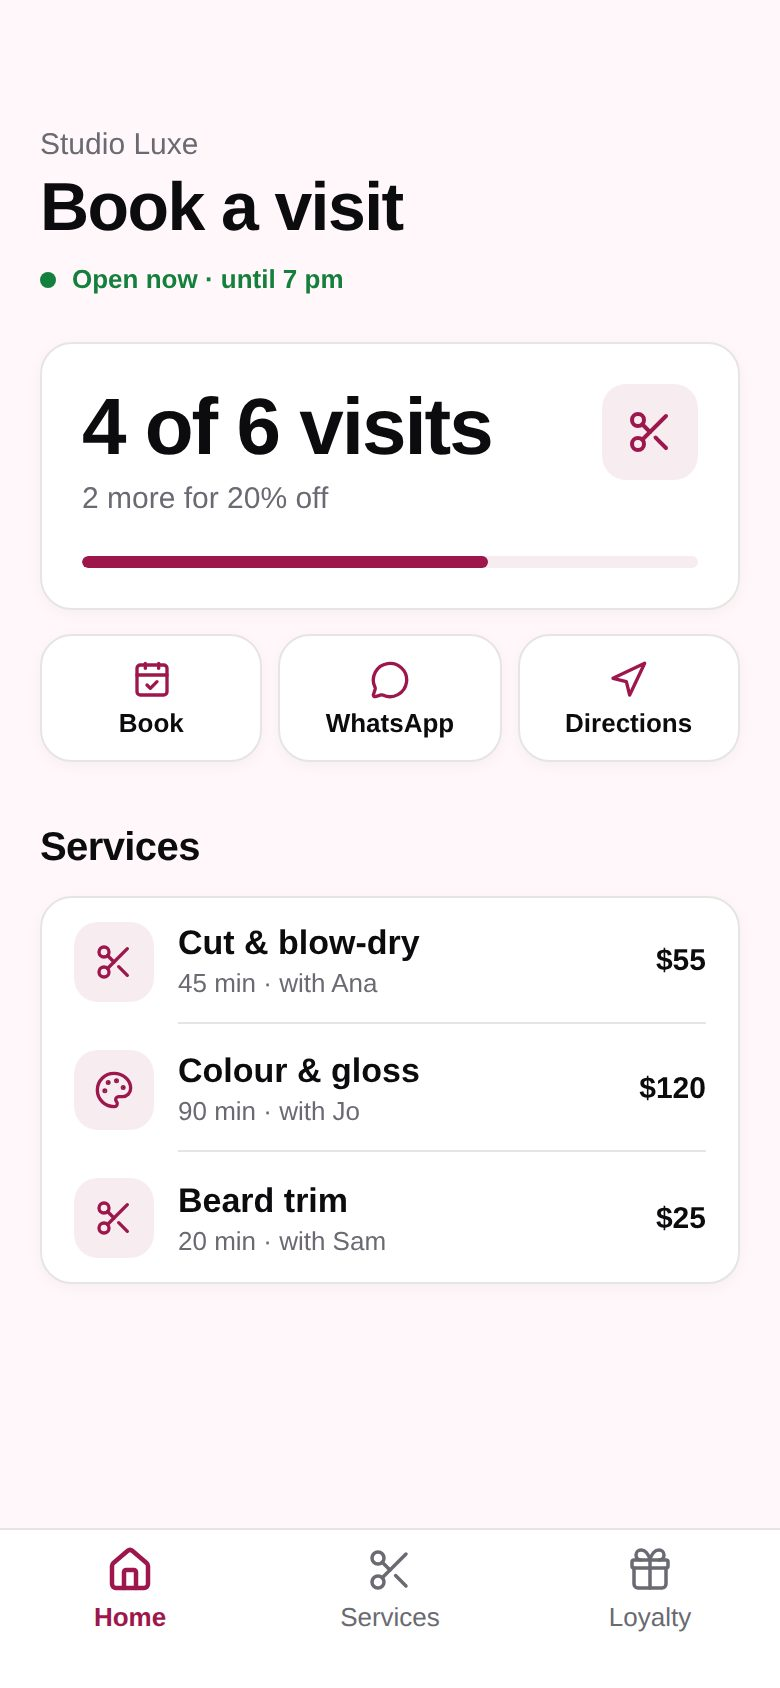
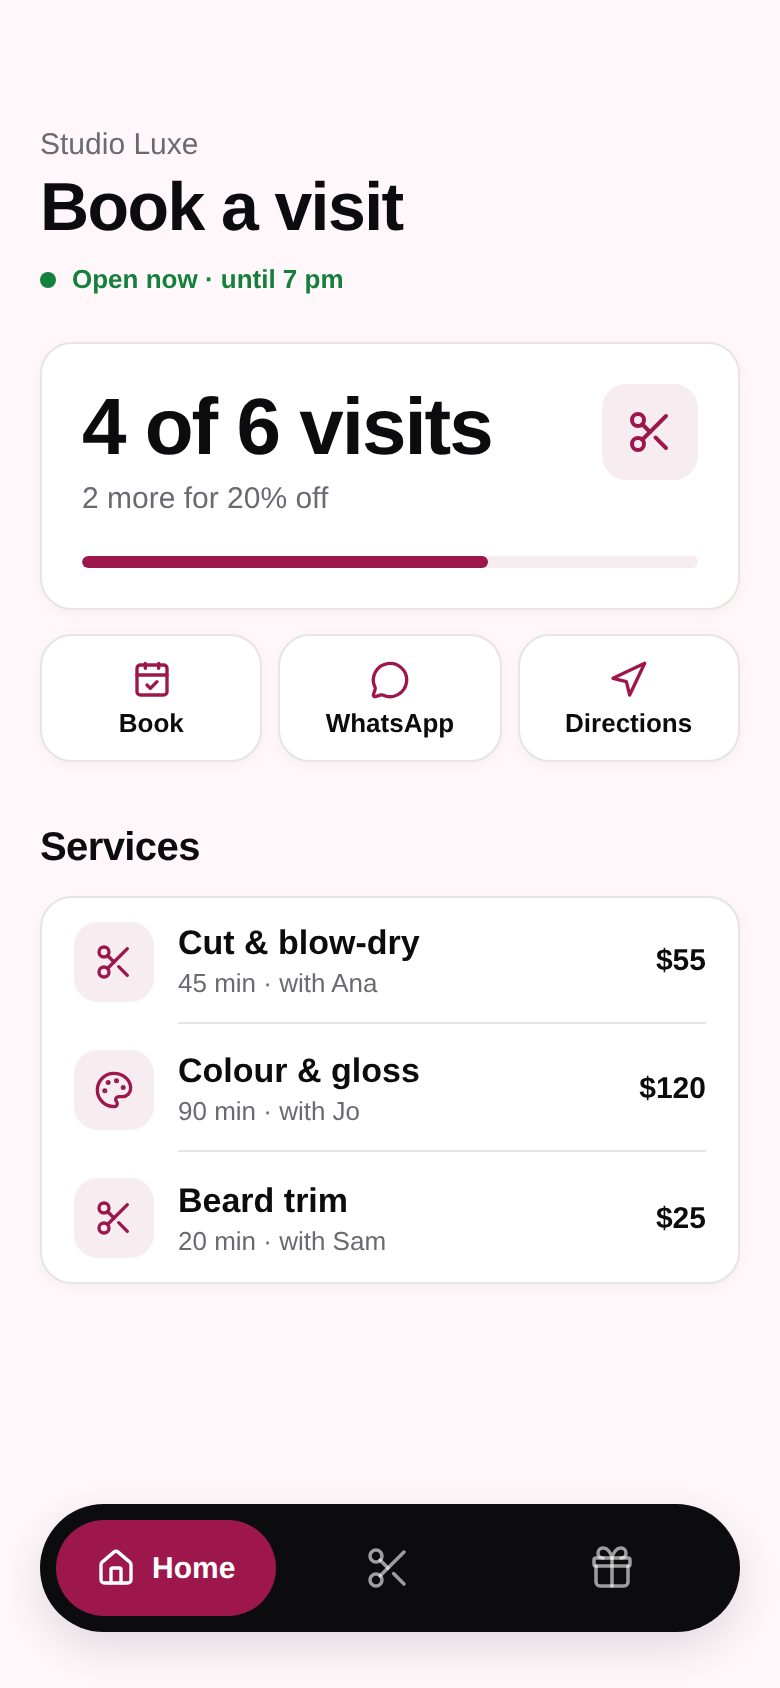
Creative bottom navigation and curved headers on the demo apps
- Home page template apps now use distinctive navigation, one style per
  app: a curved notch bar with a raised center action button (study,
  countdown, gym check-in, call a plumber), a floating dark pill whose
  current tab opens into a brand chip, a floating rounded bar with an
  indicator line, or a calm plain bar.
- Curved brand headers (a gentle arc behind the title, with the first card
  overlapping it) on the restaurant, clinic and real estate apps.
- The budget sample app's Add tab is now the raised center button of a
  curved bar; its hint moved under the Recent heading.
- The app designer's instructions describe these navigation styles and
  shapes (built with Views, accessible tabs, one style chosen per app).
- All home page screenshots regenerated.

Claude-Session: https://claude.ai/code/session_013TZUctfa4ToeDV2y2ByTiT

Changed region(s): [[0.0308, 0.8934, 0.9538, 0.9858]]

diff --git a/scripts/template-screens.ts b/scripts/template-screens.ts
@@ -45,11 +45,18 @@ interface Screen {
   section: string;
   rows: Row[];
   tabs: [string, string][];
+  /** Bottom navigation: a curved bar with a raised center button, a floating pill, a floating bar, or a plain bar. */
+  nav: "notch" | "pill" | "float" | "bar";
+  /** The center button of a notch bar (a Lucide icon). */
+  fab?: string;
+  /** A brand-colored header with a curved bottom edge behind the title. */
+  header?: "curve";
 }
 
 /** Home screens for templates without a sample app. */
 const SCREENS: Record<string, Screen> = {
   "recipe-box": {
+    nav: "float",
     layout: "feature",
     eyebrow: "What's cooking",
     title: "Recipes",
@@ -70,6 +77,8 @@ const SCREENS: Record<string, Screen> = {
     ],
   },
   "language-flashcards": {
+    nav: "notch",
+    fab: "Play",
     layout: "stat",
     eyebrow: "Spanish · Day 12",
     title: "Study",
@@ -89,6 +98,7 @@ const SCREENS: Record<string, Screen> = {
     ],
   },
   "plant-care": {
+    nav: "pill",
     layout: "grid",
     eyebrow: "Today",
     title: "My plants",
@@ -108,6 +118,8 @@ const SCREENS: Record<string, Screen> = {
     ],
   },
   "event-countdown": {
+    nav: "notch",
+    fab: "Plus",
     layout: "stat",
     eyebrow: "Coming up",
     title: "Countdowns",
@@ -127,6 +139,8 @@ const SCREENS: Record<string, Screen> = {
     ],
   },
   "restaurant-or-cafe": {
+    nav: "float",
+    header: "curve",
     layout: "feature",
     eyebrow: "Trattoria · Brooklyn",
     title: "Luigi's",
@@ -148,6 +162,7 @@ const SCREENS: Record<string, Screen> = {
     ],
   },
   "salon-or-barber": {
+    nav: "pill",
     layout: "stat",
     eyebrow: "Studio Luxe",
     title: "Book a visit",
@@ -169,6 +184,8 @@ const SCREENS: Record<string, Screen> = {
     ],
   },
   "gym-or-studio": {
+    nav: "notch",
+    fab: "QrCode",
     layout: "list",
     eyebrow: "Iron Yard Gym",
     title: "Today's classes",
@@ -190,6 +207,8 @@ const SCREENS: Record<string, Screen> = {
     ],
   },
   "clinic-or-dentist": {
+    nav: "bar",
+    header: "curve",
     layout: "list",
     eyebrow: "Bright Smile Dental",
     title: "Hello, Sam",
@@ -211,6 +230,7 @@ const SCREENS: Record<string, Screen> = {
     ],
   },
   "local-shop": {
+    nav: "pill",
     layout: "grid",
     eyebrow: "Maple & Co.",
     title: "New in",
@@ -232,6 +252,7 @@ const SCREENS: Record<string, Screen> = {
     ],
   },
   "church-or-community": {
+    nav: "float",
     layout: "list",
     eyebrow: "Grace Community",
     title: "This week",
@@ -252,6 +273,8 @@ const SCREENS: Record<string, Screen> = {
     ],
   },
   "real-estate-agent": {
+    nav: "pill",
+    header: "curve",
     layout: "feature",
     eyebrow: "Harbor Homes",
     title: "Featured",
@@ -272,6 +295,8 @@ const SCREENS: Record<string, Screen> = {
     ],
   },
   "home-services": {
+    nav: "notch",
+    fab: "Phone",
     layout: "grid",
     eyebrow: "FixRight Plumbing",
     title: "How can we help?",
@@ -303,12 +328,15 @@ const ACTION_ICONS: Record<string, string> = { Call: "Phone", Directions: "Navig
  * and the primary action, a short type scale, left alignment, grouped lists and a
  * composition chosen per template (big number, feature card, tile grid, list).
  */
-function screenApp(s: Screen): string {
+function screenApp(screen: Screen): string {
+  // A notch bar needs the same number of tabs on each side of its center button.
+  const s = screen.nav === "notch" && screen.tabs.length % 2 ? { ...screen, tabs: [...screen.tabs, ["CircleUser", "Profile"] as [string, string]] } : screen;
   const icons = [
     ...new Set([
       ...(s.hero.icon ? [s.hero.icon] : []),
       ...s.rows.flatMap((r) => [r.icon, ...(r.rightIcon ? [r.rightIcon] : [])]),
       ...s.tabs.map(([i]) => i),
+      ...(s.fab ? [s.fab] : []),
       ...(s.actions ?? []).map((a) => {
         if (!ACTION_ICONS[a]) throw new Error(`No icon for the action ${a}`);
         return ACTION_ICONS[a];
@@ -333,7 +361,7 @@ const Icon = ({ name, size = 20, color = S.color, strokeWidth = 2 }) => {
 
 function Hero() {
   const h = S.hero;
-  if (S.layout === 'stat') {
+  if (S.layout === 'stat' || S.header === 'curve') {
     return (
       <View style={[styles.card, { padding: 20, marginTop: 24 }]}>
         <View style={{ flexDirection: 'row', alignItems: 'flex-start' }}>
@@ -415,16 +443,86 @@ function Rows() {
   );
 }
 
+
+function Tab({ icon, label, active, dark }) {
+  const idle = dark ? 'rgba(255,255,255,0.6)' : C.muted;
+  return (
+    <View style={{ flex: 1, alignItems: 'center' }}>
+      <Icon name={icon} size={24} color={active ? S.color : idle} strokeWidth={active ? 2.25 : 1.75} />
+      <Text style={[styles.meta, { marginTop: 4, color: active ? S.color : idle, fontWeight: active ? '600' : '500' }]}>{label}</Text>
+    </View>
+  );
+}
+
+/** The bottom navigation, in the screen's style. */
+function Nav() {
+  if (S.nav === 'pill') {
+    // A floating dark pill; the current tab opens into a brand chip with its label.
+    return (
+      <View style={[styles.floating, { backgroundColor: C.ink, height: 64, borderRadius: 999, paddingHorizontal: 8 }]}>
+        {S.tabs.map(([icon, label], i) =>
+          i === 0 ? (
+            <View key={label} style={{ flexDirection: 'row', alignItems: 'center', height: 48, paddingHorizontal: 20, borderRadius: 999, backgroundColor: S.color }}>
+              <Icon name={icon} size={20} color={C.onBrand} />
+              <Text style={[styles.sub, { color: C.onBrand, fontWeight: '600', marginLeft: 8 }]}>{label}</Text>
+            </View>
+          ) : (
+            <View key={label} style={{ flex: 1, alignItems: 'center' }}>
+              <Icon name={icon} size={24} color="rgba(255,255,255,0.6)" strokeWidth={1.75} />
+            </View>
+          ),
+        )}
+      </View>
+    );
+  }
+  if (S.nav === 'float') {
+    // A floating rounded bar; a short brand line marks the current tab.
+    return (
+      <View style={[styles.floating, { backgroundColor: C.surface, height: 72, borderRadius: 24, borderWidth: StyleSheet.hairlineWidth, borderColor: C.line }]}>
+        {S.tabs.map(([icon, label], i) => (
+          <View key={label} style={{ flex: 1, alignItems: 'center' }}>
+            <Icon name={icon} size={24} color={i ? C.muted : S.color} strokeWidth={i ? 1.75 : 2.25} />
+            <View style={{ width: i ? 4 : 16, height: 4, borderRadius: 999, marginTop: 8, backgroundColor: i ? 'transparent' : S.color }} />
+          </View>
+        ))}
+      </View>
+    );
+  }
+  if (S.nav === 'notch') {
+    // A bar with a curved notch holding a raised round button for the main action.
+    const left = S.tabs.slice(0, Math.ceil(S.tabs.length / 2));
+    const right = S.tabs.slice(left.length);
+    return (
+      <View style={styles.bar}>
+        <View style={styles.notch} />
+        {left.map(([icon, label], i) => <Tab key={label} icon={icon} label={label} active={i === 0} />)}
+        <View style={{ width: 88 }} />
+        {right.map(([icon, label]) => <Tab key={label} icon={icon} label={label} />)}
+        <View style={styles.fab}>
+          <Icon name={S.fab} size={28} color={C.onBrand} strokeWidth={2.25} />
+        </View>
+      </View>
+    );
+  }
+  return (
+    <View style={styles.bar}>
+      {S.tabs.map(([icon, label], i) => <Tab key={label} icon={icon} label={label} active={i === 0} />)}
+    </View>
+  );
+}
+
 export default function App() {
+  const curve = S.header === 'curve';
   return (
     <View style={{ flex: 1, backgroundColor: S.bg }}>
-      <ScrollView contentContainerStyle={{ paddingHorizontal: 20, paddingTop: 64, paddingBottom: 120 }}>
-        <Text style={styles.eyebrow}>{S.eyebrow}</Text>
-        <Text style={styles.title}>{S.title}</Text>
+      <ScrollView contentContainerStyle={{ paddingHorizontal: 20, paddingTop: 64, paddingBottom: 140 }}>
+        {curve ? <View style={styles.curve} /> : null}
+        <Text style={[styles.eyebrow, curve && { color: C.onBrand, opacity: 0.8 }]}>{S.eyebrow}</Text>
+        <Text style={[styles.title, curve && { color: C.onBrand }]}>{S.title}</Text>
         {S.open ? (
           <View style={{ flexDirection: 'row', alignItems: 'center', marginTop: 8 }}>
-            <View style={{ width: 8, height: 8, borderRadius: 999, backgroundColor: C.open }} />
-            <Text style={[styles.meta, { color: C.open, marginTop: 0, marginLeft: 8, fontWeight: '600' }]}>{S.open}</Text>
+            <View style={{ width: 8, height: 8, borderRadius: 999, backgroundColor: curve ? C.onBrand : C.open }} />
+            <Text style={[styles.meta, { color: curve ? C.onBrand : C.open, marginTop: 0, marginLeft: 8, fontWeight: '600' }]}>{S.open}</Text>
           </View>
         ) : null}
         <Hero />
@@ -450,14 +548,7 @@ export default function App() {
         <Text style={styles.section}>{S.section}</Text>
         <Rows />
       </ScrollView>
-      <View style={styles.tabs}>
-        {S.tabs.map(([icon, label], i) => (
-          <View key={label} style={{ flex: 1, alignItems: 'center' }}>
-            <Icon name={icon} size={24} color={i ? C.muted : S.color} strokeWidth={i ? 1.75 : 2.25} />
-            <Text style={[styles.meta, { marginTop: 4, color: i ? C.muted : S.color, fontWeight: i ? '500' : '600' }]}>{label}</Text>
-          </View>
-        ))}
-      </View>
+      <Nav />
     </View>
   );
 }
@@ -475,7 +566,12 @@ const styles = StyleSheet.create({
   value: { fontSize: 15, fontWeight: '600', color: C.ink, fontVariant: ['tabular-nums'] },
   primary: { height: 48, borderRadius: 12, backgroundColor: S.color, alignItems: 'center', justifyContent: 'center' },
   primaryText: { fontSize: 15, fontWeight: '600', color: C.onBrand },
-  tabs: { position: 'absolute', left: 0, right: 0, bottom: 0, flexDirection: 'row', backgroundColor: C.surface, borderTopWidth: StyleSheet.hairlineWidth, borderTopColor: C.line, paddingTop: 8, paddingBottom: 28 },
+  bar: { position: 'absolute', left: 0, right: 0, bottom: 0, flexDirection: 'row', backgroundColor: C.surface, borderTopWidth: StyleSheet.hairlineWidth, borderTopColor: C.line, paddingTop: 12, paddingBottom: 28 },
+  floating: { position: 'absolute', left: 20, right: 20, bottom: 28, flexDirection: 'row', alignItems: 'center', shadowColor: C.ink, shadowOpacity: 0.12, shadowRadius: 24, shadowOffset: { width: 0, height: 8 }, elevation: 4 },
+  notch: { position: 'absolute', top: -44, left: '50%', marginLeft: -44, width: 88, height: 88, borderRadius: 999, backgroundColor: S.bg },
+  fab: { position: 'absolute', top: -32, left: '50%', marginLeft: -32, width: 64, height: 64, borderRadius: 999, backgroundColor: S.color, alignItems: 'center', justifyContent: 'center', shadowColor: S.color, shadowOpacity: 0.12, shadowRadius: 12, shadowOffset: { width: 0, height: 6 }, elevation: 4 },
+  // A very large circle whose bottom edge makes a gentle arc under the title.
+  curve: { position: 'absolute', top: -1300, left: '50%', marginLeft: -800, width: 1600, height: 1600, borderRadius: 999, backgroundColor: S.color },
 });
 `;
 }

diff --git a/demo-apps/budget/App.js b/demo-apps/budget/App.js
@@ -141,6 +141,7 @@ export default function App() {
               <Text style={styles.section} accessibilityRole="header">
                 Recent
               </Text>
+              {items.length > 0 && <Text style={styles.hint}>Long-press an expense to delete it</Text>}
               {items.length === 0 && (
                 <View style={styles.empty}>
                   <View style={styles.emptyCircle}>
@@ -185,7 +186,6 @@ export default function App() {
                   </Pressable>
                 );
               })}
-              {items.length > 0 && <Text style={styles.hint}>Long-press an expense to delete it</Text>}
             </>
           )}
 
@@ -316,26 +316,39 @@ export default function App() {
             <Text style={styles.toastText}>{toast}</Text>
           </View>
         )}
+        {/* Curved bar: Home and Insights on either side, Add as the raised center button. */}
         <View style={styles.tabBar}>
-          {TABS.map(({ key, label, Icon }) => {
+          <View style={styles.notch} pointerEvents="none" />
+          {TABS.filter((t) => t.key !== 'add').map(({ key, label, Icon }, i) => {
             const selected = tab === key;
             const tint = selected ? colors.primary : colors.muted;
             return (
-              <Pressable
-                key={key}
-                style={(s) => [styles.tab, pressed(s)]}
-                onPress={() => setTab(key)}
-                accessibilityRole="tab"
-                accessibilityState={{ selected }}
-                accessibilityLabel={label}
-              >
-                <Icon color={tint} size={24} strokeWidth={selected ? 2.5 : 2} accessible={false} />
-                <Text style={[styles.tabLabel, { color: tint }]} maxFontSizeMultiplier={1.4}>
-                  {label}
-                </Text>
-              </Pressable>
+              <React.Fragment key={key}>
+                {i === 1 && <View style={styles.notchGap} />}
+                <Pressable
+                  style={(s) => [styles.tab, pressed(s)]}
+                  onPress={() => setTab(key)}
+                  accessibilityRole="tab"
+                  accessibilityState={{ selected }}
+                  accessibilityLabel={label}
+                >
+                  <Icon color={tint} size={24} strokeWidth={selected ? 2.5 : 2} accessible={false} />
+                  <Text style={[styles.tabLabel, { color: tint }]} maxFontSizeMultiplier={1.4}>
+                    {label}
+                  </Text>
+                </Pressable>
+              </React.Fragment>
             );
           })}
+          <Pressable
+            style={(s) => [styles.fab, pressed(s)]}
+            onPress={() => setTab('add')}
+            accessibilityRole="tab"
+            accessibilityState={{ selected: tab === 'add' }}
+            accessibilityLabel="Add expense"
+          >
+            <Plus color={colors.onPrimary} size={28} strokeWidth={2.5} accessible={false} />
+          </Pressable>
         </View>
       </SafeAreaView>
     </View>
@@ -344,7 +357,7 @@ export default function App() {
 
 const styles = StyleSheet.create({
   root: { flex: 1, backgroundColor: colors.background },
-  content: { padding: 20, paddingBottom: 40 },
+  content: { padding: 20, paddingBottom: 64 },
   kicker: { color: colors.muted, fontSize: 13, fontWeight: '600', textTransform: 'uppercase' },
   title: { fontSize: 34, fontWeight: font.heading, color: colors.text, letterSpacing: -0.5, marginBottom: 16 },
   hero: { backgroundColor: colors.primary, padding: 24 },
@@ -363,7 +376,7 @@ const styles = StyleSheet.create({
   rowTitle: { fontSize: 17, fontWeight: '600', color: colors.text },
   rowMeta: { fontSize: 13, color: colors.muted, marginTop: 2 },
   rowAmount: { fontSize: 17, fontWeight: '700', color: colors.text, fontVariant: ['tabular-nums'] },
-  hint: { fontSize: 13, color: colors.muted, textAlign: 'center', marginTop: 8 },
+  hint: { fontSize: 13, color: colors.muted, marginTop: -4, marginBottom: 12 },
   empty: { alignItems: 'center', paddingVertical: 24, paddingHorizontal: 16 },
   emptyCircle: { width: 88, height: 88, borderRadius: radius.pill, backgroundColor: colors.primarySoft, alignItems: 'center', justifyContent: 'center', marginBottom: 16 },
   emptyTitle: { fontSize: 20, fontWeight: font.heading, color: colors.text },
@@ -391,7 +404,10 @@ const styles = StyleSheet.create({
   barValue: { width: 76, textAlign: 'right', color: colors.text, fontWeight: '700', fontVariant: ['tabular-nums'] },
   toast: { position: 'absolute', left: 20, right: 20, bottom: 100, flexDirection: 'row', alignItems: 'center', justifyContent: 'center', gap: 8, backgroundColor: colors.primary, borderRadius: radius.pill, paddingVertical: 12, paddingHorizontal: 16 },
   toastText: { color: colors.onPrimary, fontWeight: '600', fontSize: 15 },
-  tabBar: { flexDirection: 'row', backgroundColor: colors.surface, borderTopWidth: StyleSheet.hairlineWidth, borderColor: colors.border, paddingTop: 8, paddingBottom: 20 },
+  tabBar: { flexDirection: 'row', backgroundColor: colors.surface, borderTopWidth: StyleSheet.hairlineWidth, borderColor: colors.border, paddingTop: 12, paddingBottom: 20 },
+  notch: { position: 'absolute', top: -44, left: '50%', marginLeft: -44, width: 88, height: 88, borderRadius: 999, backgroundColor: colors.background },
+  notchGap: { width: 88 },
+  fab: { position: 'absolute', top: -32, left: '50%', marginLeft: -32, width: 64, height: 64, borderRadius: 999, backgroundColor: colors.primary, alignItems: 'center', justifyContent: 'center', shadowColor: colors.primary, shadowOpacity: 0.12, shadowRadius: 12, shadowOffset: { width: 0, height: 6 }, elevation: 4 },
   tab: { flex: 1, minHeight: 48, alignItems: 'center', justifyContent: 'center', gap: 2 },
   tabLabel: { fontSize: 12, fontWeight: '600' },
 });

diff --git a/src/lib/app-design.ts b/src/lib/app-design.ts
@@ -18,6 +18,13 @@ People can spot AI-made apps: purple gradients on everything, emoji instead of i
 - Spacing is generous and consistent: only 4, 8, 12, 16, 20, 24, 32, 40, 48; 20–24 screen padding; 32–40 between sections, so screens breathe. Lists of settings-like rows are grouped in inset sections with hairline separators, not every row in its own card.
 - Depth is subtle: hairline borders or the theme's \`card\` style; shadowOpacity at most 0.12, elevation at most 4. One corner radius family (the theme's radius.sm/md/lg), never a mix of random values.
 - Native feel: large titles that sit at the top left, a bottom tab bar with 3–5 tabs, sheets and modals for adding and editing, a pressed state on everything tappable, haptics on primary actions, and safe areas respected.
+- A distinctive bottom navigation that suits the app (in its own file, src/components/TabBar.js, built with Views; respect the bottom safe area and keep each tab at least 48pt with an accessibilityRole "tab", accessibilityState selected and a label):
+  - Curved notch with a raised center button, when the app has one main action (add an expense, scan, log, call): the bar is a surface-colored strip with a hairline top; a circle in the screen's background color (about 88) sits centered on its top edge to carve the notch, and a 64 round button in colors.primary with a Lucide icon in colors.onPrimary sits in it. Tabs split evenly on both sides (add a Profile or More tab to even them out).
+  - Floating pill: a dark rounded bar floating 20 from the screen edges and above the safe area; the current tab opens into a colors.primary chip with its icon and label, the others are icons only (each still with an accessibilityLabel).
+  - Floating bar: a surface-colored bar with radius.lg and a soft shadow, floating above the content; a short colors.primary line or dot under the current tab's icon.
+  - Plain bar: for calm, content-first apps; icons 24 with short labels, the current one in colors.primary.
+  Give scrolling content enough bottom padding to clear a floating bar. Use one style per app, chosen for it, not always the same one.
+- Shapes that give screens character, used once per screen: a brand-colored header with a gently curved bottom edge behind the title (a very large circle, about 1600 wide, positioned so only its bottom arc shows), with the first card overlapping it; a hero card with a large icon in a soft circle bleeding off its corner; or an edge-to-edge photo with the title over a dark overlay.
 - Copy sounds like the business or a helpful person, specific to this app: "Log today's water", "3 bookings this week", "Next: Haircut with Sam, 2:30". Never filler like "Welcome to the app", "Unlock your potential", "Elevate your experience", "Seamless", "Embark on your journey", "at your fingertips", "Discover the power of", or Lorem ipsum.
 - Before finishing, look at each screen as a designer would: would this look at home next to Things, Linear, Airbnb or Apple's own apps? If it looks like a template, change the composition, not just the colors.`;
 
